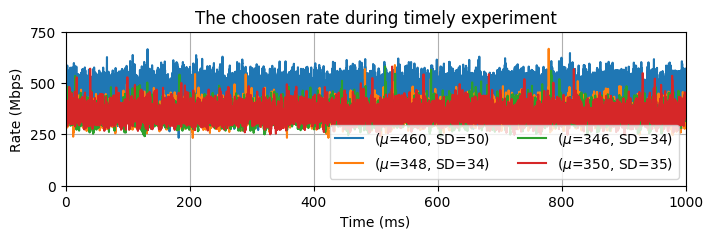
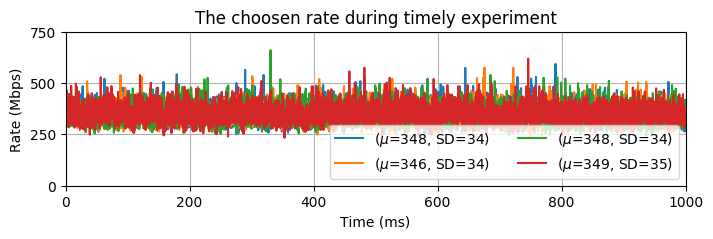
Allow explicit flow overwrites to choose the same flows for throughput and other plots

diff --git a/dctcp-ns2/bin/benchmark_tools.py b/dctcp-ns2/bin/benchmark_tools.py
@@ -143,7 +143,7 @@ def plot_allRTTcdf(out_dir, log_plot=True, dctcp=None, vegas=None, timely=None,
 
 
 def plot_rate(algo_name, num_clients, out_dir, conn_per_client=1, nplot=1,
-              timely_style=False):
+              timely_style=False, flows=None):
     """
     Plots a sample of the output rates for the given connections to reproduce
     Figure 13 of the TIMELY paper.
@@ -171,7 +171,10 @@ def plot_rate(algo_name, num_clients, out_dir, conn_per_client=1, nplot=1,
     print("Plotting rates. %d of %d flows had rates set" % (len(rates), nflows))
 
     # Just pick a subset of nplot
-    plot_rates = sample(rates, nplot)
+    if flows is None:
+        plot_rates = sample(rates, nplot)
+    else:
+        plot_rates = [rates[i] for i in flows]
 
     fig = plt.figure(figsize=(8,2))
     for data in plot_rates:
@@ -247,7 +250,7 @@ def plot_signal(signal_name, algo_name, num_clients, out_dir, conn_per_client=1,
     plt.close()
 
 def plot_throughput(algo_name, num_clients, out_dir, conn_per_client=1,
-                    report_only=False, nplot=0, timely_style=False):
+                    report_only=False, nplot=0, timely_style=False, flows=None):
     """
     Plots the throughput for the first num_clients clients, assuming
     each client serves conn_per_client connections.
@@ -309,10 +312,11 @@ def plot_throughput(algo_name, num_clients, out_dir, conn_per_client=1,
     total_thp = np.sum(throughputs, axis=(1, 2))
 
     if not report_only:
-        plot_flows = sample(range(num_clients*conn_per_client),nplot)
-        selected = []
-        for f in plot_flows:
-            selected.append((int(f/conn_per_client),f%conn_per_client))
+        plot_flows = flows if flows is not None else sample(
+            range(num_clients*conn_per_client),nplot)
+
+        selected = [(int(f/conn_per_client), f%conn_per_client)
+                    for f in plot_flows]
         
         # Plot individual throughputs
         plt.figure(figsize=(8,2))

diff --git a/lib/reproduction_sim.py b/lib/reproduction_sim.py
@@ -66,10 +66,10 @@ def main():
                                               timely_style=True)
         timely_thp = benchmark_tools.plot_throughput(congestion_alg, num_clients, out_dir, \
                                                      conn_per_client=num_conn_per_client, nplot=4,
-                                                     timely_style=True)
+                                                     timely_style=True, flows=[2,0,8,14])
         benchmark_tools.plot_rate(congestion_alg, num_clients, out_dir, \
                                   conn_per_client=num_conn_per_client, nplot=4,
-                                  timely_style=True)
+                                  timely_style=True, flows=[2,0,8,14])
         benchmark_tools.plot_queue(congestion_alg, out_dir)
 
 
